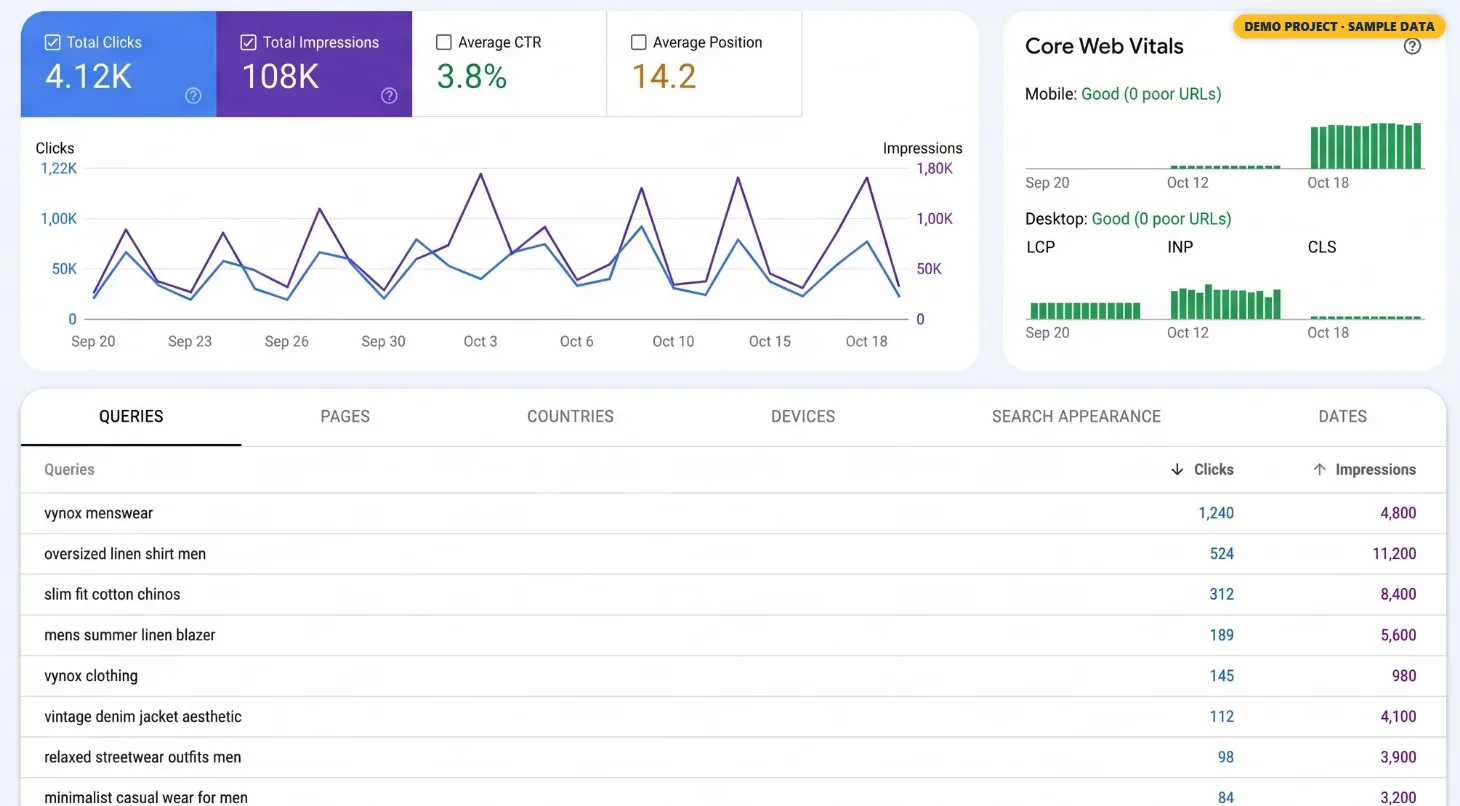
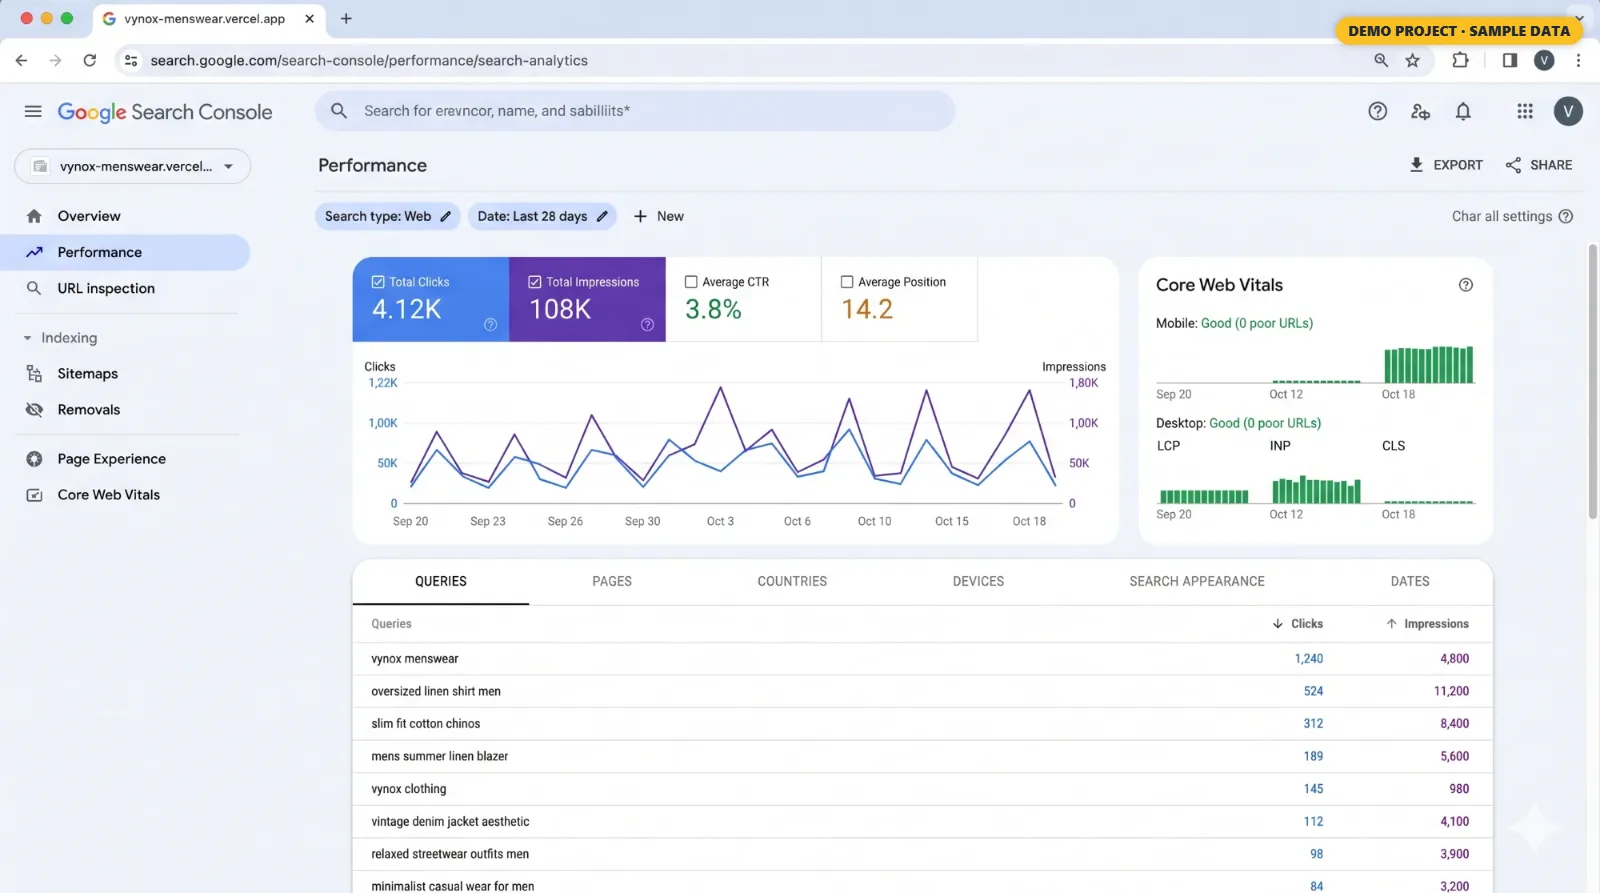
Vynox demo images shown in full (uncropped), small demo tag kept

diff --git a/index.html b/index.html
@@ -2206,11 +2206,11 @@ footer{background:var(--bg1);border-top:1px solid var(--glass-b);position:relati
         <div class="vx-demo">
           <div class="seo-sh"><div class="seo-sh-ic"><i class="fas fa-chart-bar ic ic-chart-bar" aria-hidden="true"><svg viewBox="0 0 512 512"><use href="#i-chart-bar"/></svg></i></div><h3>GA4 &amp; Search Console Setup (Demo)</h3></div>
           <div class="vx-grid">
-            <figure class="vx-item vx-wide"><img decoding="async" loading="lazy" data-src="assets/demo-ga4-overview.webp?v=2" width="1550" height="966" alt="GA4 e-commerce overview (demo, sample data)"><figcaption><b>GA4 e-commerce overview</b>Users, engaged sessions, conversion rate and revenue, plus views, add-to-carts and purchases for each product.</figcaption></figure>
-            <figure class="vx-item"><img decoding="async" loading="lazy" data-src="assets/demo-ga4-debugview.webp?v=2" width="1600" height="850" alt="Event tracking check (Tag Assistant + DebugView) (demo, sample data)"><figcaption><b>Event tracking check (Tag Assistant + DebugView)</b>Testing that view_item, add_to_cart, begin_checkout and purchase fire in order, with the transaction ID, value and items.</figcaption></figure>
-            <figure class="vx-item"><img decoding="async" loading="lazy" data-src="assets/demo-ga4-funnel.webp?v=2" width="1110" height="1031" alt="E-commerce funnel exploration (demo, sample data)"><figcaption><b>E-commerce funnel exploration</b>Shows where shoppers drop off between session start and purchase, split by desktop, mobile and tablet.</figcaption></figure>
-            <figure class="vx-item"><img decoding="async" loading="lazy" data-src="assets/demo-ga4-channels.webp?v=2" width="1600" height="925" alt="Traffic acquisition by channel (demo, sample data)"><figcaption><b>Traffic acquisition by channel</b>Organic search, direct, social, referral, email and paid, compared on sessions, engagement and conversions.</figcaption></figure>
-            <figure class="vx-item"><img decoding="async" loading="lazy" data-src="assets/demo-gsc-performance.webp?v=2" width="1460" height="806" alt="Search Console performance (demo, sample data)"><figcaption><b>Search Console performance</b>Clicks, impressions, CTR and average position for the store's product search terms, plus Core Web Vitals.</figcaption></figure>
+            <figure class="vx-item vx-wide"><img decoding="async" loading="lazy" data-src="assets/demo-ga4-overview.webp?v=3" width="1600" height="893" alt="GA4 e-commerce overview (demo, sample data)"><figcaption><b>GA4 e-commerce overview</b>Users, engaged sessions, conversion rate and revenue, plus views, add-to-carts and purchases for each product.</figcaption></figure>
+            <figure class="vx-item"><img decoding="async" loading="lazy" data-src="assets/demo-ga4-debugview.webp?v=3" width="1600" height="893" alt="Event tracking check (Tag Assistant + DebugView) (demo, sample data)"><figcaption><b>Event tracking check (Tag Assistant + DebugView)</b>Testing that view_item, add_to_cart, begin_checkout and purchase fire in order, with the transaction ID, value and items.</figcaption></figure>
+            <figure class="vx-item"><img decoding="async" loading="lazy" data-src="assets/demo-ga4-funnel.webp?v=3" width="1600" height="893" alt="E-commerce funnel exploration (demo, sample data)"><figcaption><b>E-commerce funnel exploration</b>Shows where shoppers drop off between session start and purchase, split by desktop, mobile and tablet.</figcaption></figure>
+            <figure class="vx-item"><img decoding="async" loading="lazy" data-src="assets/demo-ga4-channels.webp?v=3" width="1600" height="893" alt="Traffic acquisition by channel (demo, sample data)"><figcaption><b>Traffic acquisition by channel</b>Organic search, direct, social, referral, email and paid, compared on sessions, engagement and conversions.</figcaption></figure>
+            <figure class="vx-item"><img decoding="async" loading="lazy" data-src="assets/demo-gsc-performance.webp?v=3" width="1600" height="893" alt="Search Console performance (demo, sample data)"><figcaption><b>Search Console performance</b>Clicks, impressions, CTR and average position for the store's product search terms, plus Core Web Vitals.</figcaption></figure>
           </div>
         </div>
 
